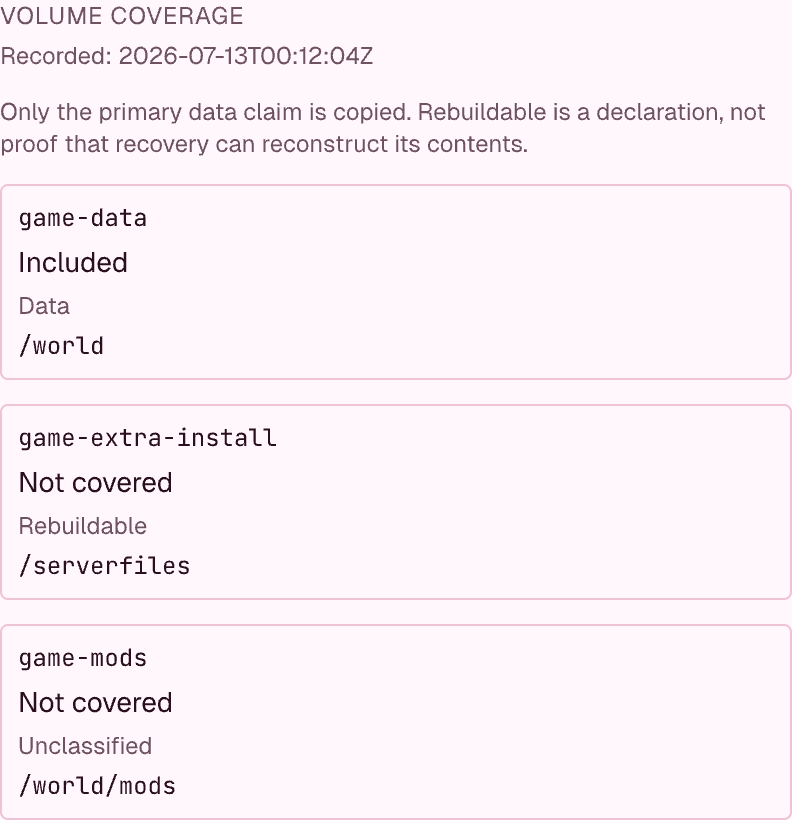
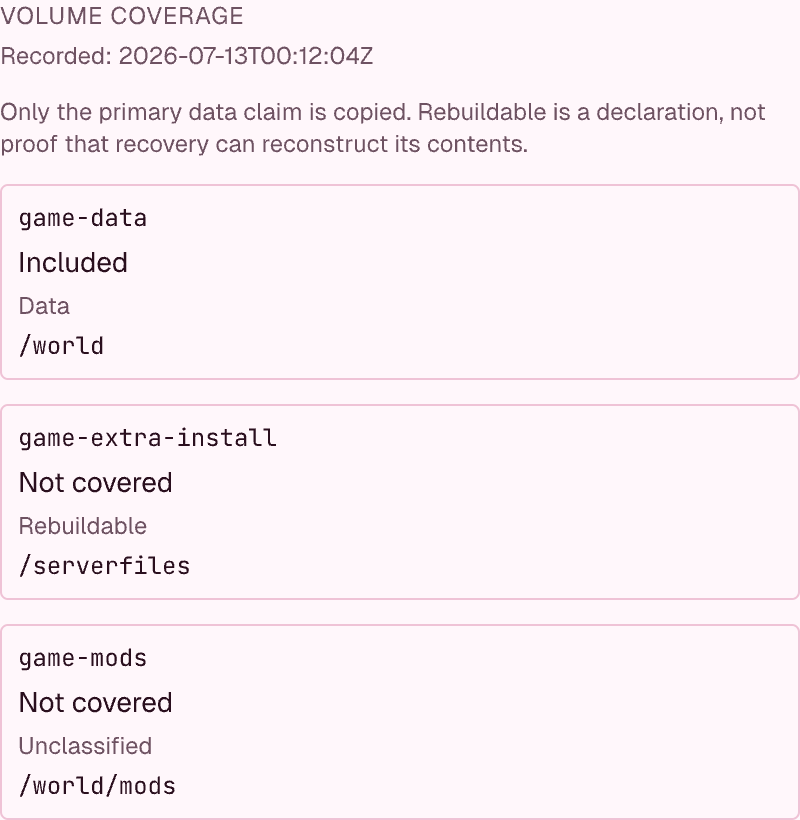
fix(web): align backup drawer with Pencil references

diff --git a/web/src/components/backups/BackupDetailDrawer.tsx b/web/src/components/backups/BackupDetailDrawer.tsx
@@ -74,7 +74,7 @@ export function BackupDetailDrawer({ name, ns, onClose, onRestore, target: expli
                 <RotateCcw className="h-4 w-4" />{intl.formatMessage({ id: "web.components.backups.backup_detail_drawer.restore", defaultMessage: "Restore", description: "Backup details drawer: visible text of the restore button in the drawer header and of the primary restore button in the footer; keep it short" })}</Button>
             </Drawer.Header>
 
-            <Drawer.Body className="min-h-0 space-y-4 overflow-y-auto p-5 text-sm">
+            <Drawer.Body className="m-0 min-h-0 space-y-4 overflow-y-auto p-5 text-sm text-foreground">
               {error && <ErrorBanner err={error} />}
               {backup && (
                 <>
@@ -131,7 +131,7 @@ export function BackupDetailDrawer({ name, ns, onClose, onRestore, target: expli
               {remove.error && <ErrorBanner err={remove.error} />}
             </Drawer.Body>
 
-            <Drawer.Footer className="shrink-0 flex items-center justify-end gap-2 border-t border-border p-4">
+            <Drawer.Footer className="mt-0 shrink-0 flex items-center justify-end gap-2 border-t border-border p-4">
               <Button
                 variant="danger"
                 size="sm"

diff --git a/assets/design-export/MANIFEST.md b/assets/design-export/MANIFEST.md
@@ -2821,3 +2821,7 @@ The operator has supported `spec.idle.wakeOnConnect` since v0.2.0-beta.8, but th
 Source: `web/src/components/backups/BackupDetailDrawer.tsx`. The recorded state uses the matching screenshot fixture in `web/src/test/handlers.ts`; `web/e2e/screenshots/slice-3.spec.ts` captures both node IDs and checks their distinct content.
 
 **Exports:** JSON from Pencil `Get(id, {depth: 30, includePathGeometry: true})`, with no truncation markers; PNG from `Export(ids, "png", …, {scale: 2})`. Both nodes were visually inspected in Pencil, and the recorded state was checked manually in Chrome. The user saved `design.pen` in Pencil after the final sizing adjustment. TypeScript application and screenshot source compilation passed; automated visual execution remains CI-only. The drawer reference crop was remeasured as `(120,96)-(1000,1616)` in the new PNG, retaining the 880×1520 panel.
+
+### Follow-up alignment — 2026-11-04
+
+Re-exported `zhLZN` and `bHJy6` from Pencil after reviewing the CI captures. The drawer now explicitly removes HeroUI body/footer margins and uses foreground text for values, matching the design's 20px content inset. The recorded reference is 400px wide (440px drawer minus two 20px insets); native Windows scrollbars consume additional space in the live scroll area. Coverage cards remain 98px tall. Header/footer heights, field line heights, the phase chip, and action-button typography now match the component styles. Both nodes were visually inspected in Pencil and the recorded state was inspected in Chrome; no comparison thresholds were changed. JSON and 2× PNG exports use the same methods above.
